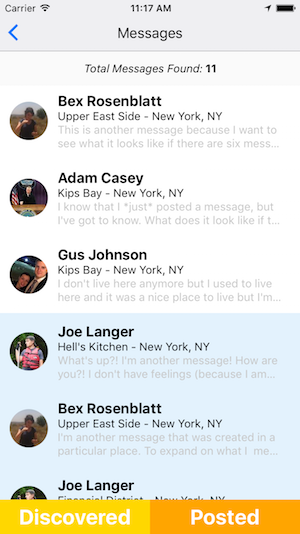
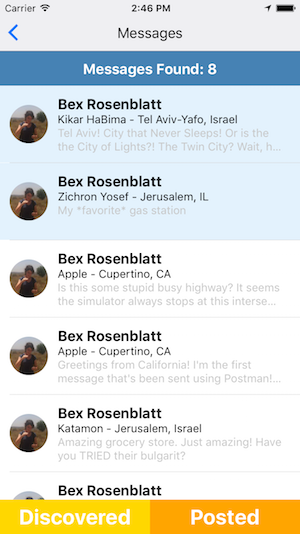
improved master message view. more colorful

diff --git a/components/message-counter.js b/components/message-counter.js
@@ -1,7 +1,8 @@
 import React, { Component } from 'react';
 import {
 	View,
-	Text
+	Text,
+	StyleSheet
 } from 'react-native';
 
 class MessageCounter extends Component {
@@ -10,17 +11,25 @@ class MessageCounter extends Component {
 
 		const textForComponent = function (filter) {
 			if (filter === "DISCOVERED") {
-				return "Total Messages Found: ";
+				return "Messages Found: ";
 			} else if (filter === "SENT") {
-				return "Total Messages Submitted: ";
+				return "Messages Submitted: ";
+			}
+		}
+
+		const backgroundStyle = function (filter) {
+			if (filter === "DISCOVERED") {
+				return [styles.container, styles.discovered];
+			} else if (filter === "SENT") {
+				return [styles.container, styles.sent];
 			}
 		}
 
 		return (
-			<View style={{flex: 1, backgroundColor: '#FAFAFA', justifyContent: 'center', alignItems: 'center'}}>
-				<Text style={{fontStyle: 'italic', textAlign: 'center'}}>
+			<View style={backgroundStyle(this.props.filter)}>
+				<Text style={{fontWeight: 'bold', textAlign: 'center', color: 'white', fontSize: 16}}>
 					{textForComponent(this.props.filter)} 
-					<Text style={{fontStyle: 'normal', fontWeight: 'bold'}}>
+					<Text style={{fontStyle: 'normal', fontWeight: 'bold', fontSize: 16}}>
 						{this.props.messageCount}
 					</Text>
 				</Text>
@@ -28,5 +37,21 @@ class MessageCounter extends Component {
 		);
 	}
 }
+
+const styles = StyleSheet.create({
+	container: {
+		flex: 1, 
+		justifyContent: 'center', 
+		alignItems: 'center'
+	},
+	discovered: {
+		backgroundColor: 'steelblue'
+	},
+	sent: {
+		backgroundColor: 'skyblue'
+	}
+
+
+})
 
 export { MessageCounter };
